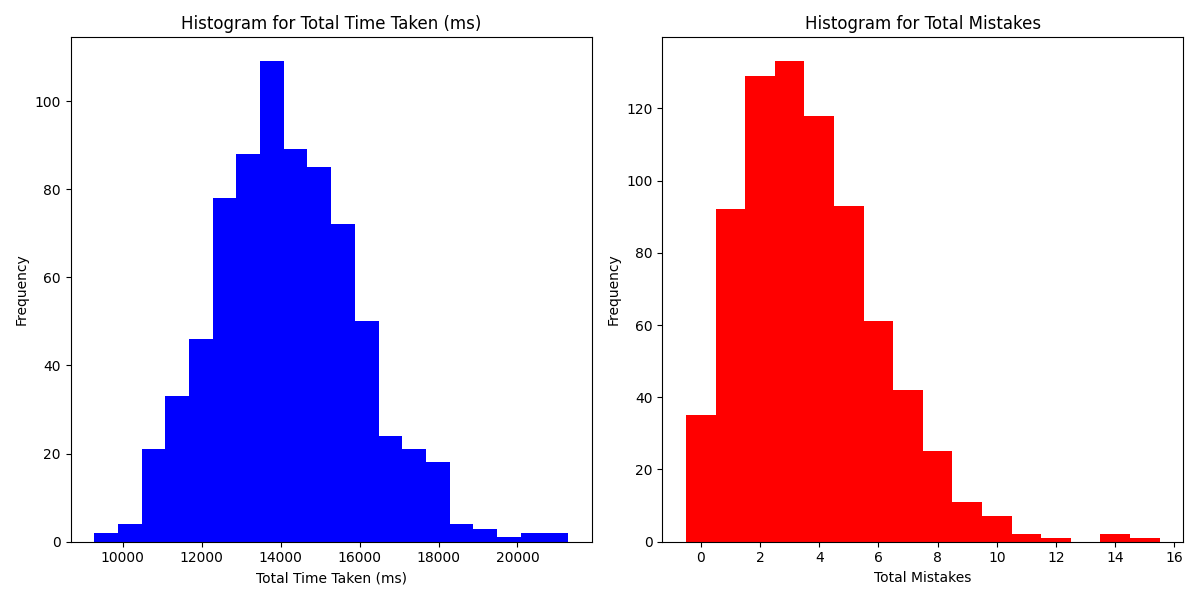
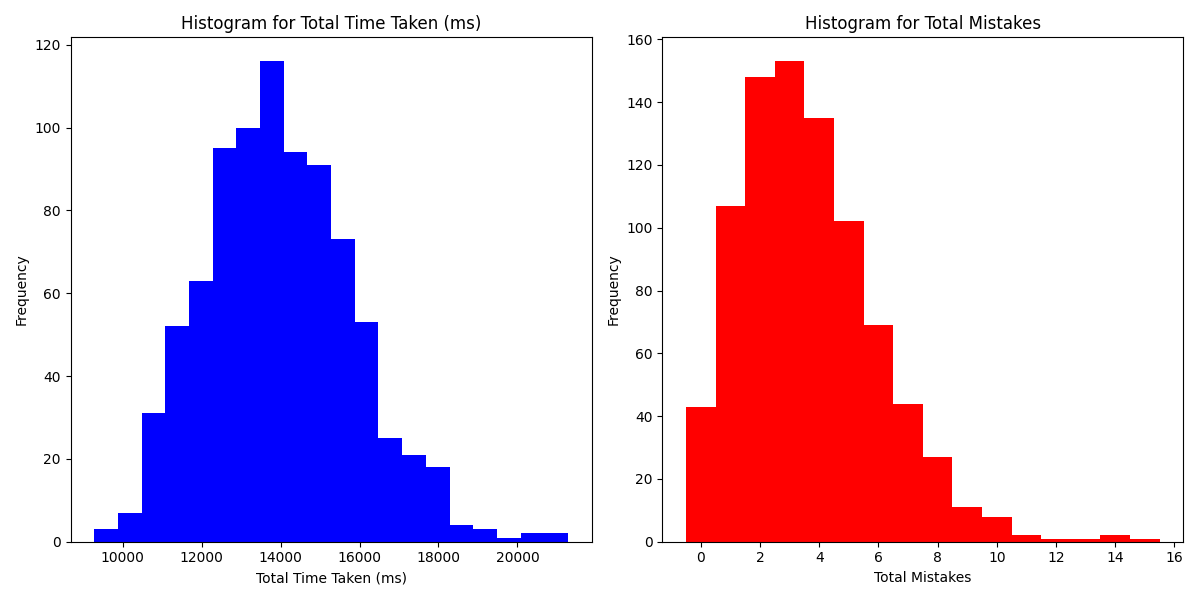
Update

diff --git a/analysis/generate_agg_data.py b/analysis/generate_agg_data.py
@@ -55,9 +55,10 @@ def generate_agg_data(sessions):
     # Creating the plot
     fig, ax1 = plt.subplots()
 
-    # Calculating median values for each session
+    # Calculating median values for each session and num 0-mistake runs
     medians_time_taken = [df["Total Time Taken (ms)"].median() for df in dfs]
     medians_mistakes = [df["Total Mistakes"].median() for df in dfs]
+    nom = [df["Total Mistakes"].value_counts().get(0, 0) for df in dfs]
 
     # Plotting Median Total Time Taken
     ax1.set_xlabel("Session")
@@ -91,22 +92,30 @@ def generate_agg_data(sessions):
     fig.tight_layout()
     plt.savefig("analysis/aggregate/vis/scatter.png")
 
+    plt.clf()
+
+    # 0-mistake runs by session
+    plt.plot(sessions, nom)
+    plt.xlabel("Session")
+    plt.ylabel("Number 0-mistake runs")
+    plt.savefig("analysis/aggregate/vis/nom.png")
+
     print("Aggregate data generated successfully.")
 
 
-generate_agg_data([str(i) for i in range(1, 9)])
+generate_agg_data([str(i) for i in range(1, 10)])
 generate_lm(
     predictor="Total Mistakes",
     response="Total Time Taken (ms)",
     output_folder_name="time_given_mistakes",
     agg=True,
-    sessions=[str(i) for i in range(1, 9)],
+    sessions=[str(i) for i in range(1, 10)],
 )
 generate_lm(
     predictor="Layout Difficulty",
     response="Total Time Taken (ms)",
     output_folder_name="time_given_diff",
     agg=True,
-    sessions=[str(i) for i in range(1, 9)],
+    sessions=[str(i) for i in range(1, 10)],
 )
-generate_plots(agg=True, sessions=[str(i) for i in range(1, 9)])
+generate_plots(agg=True, sessions=[str(i) for i in range(1, 10)])

diff --git a/analysis/generate_session_data.py b/analysis/generate_session_data.py
@@ -8,21 +8,24 @@ from generate_rolling import generate_rolling
 
 session_ID = "n"
 
-localStorage_to_raw(session_ID)
-raw_to_session(session_ID)
-generate_text_summary(session_ID)
-for i in range(10, 51, 10):
-    generate_rolling(session_ID, i)
-generate_lm(
-    predictor="Total Mistakes",
-    response="Total Time Taken (ms)",
-    session_ID=session_ID,
-    output_folder_name="time_given_mistakes",
-)
-generate_lm(
-    predictor="Layout Difficulty",
-    response="Total Time Taken (ms)",
-    session_ID=session_ID,
-    output_folder_name="time_given_diff",
-)
-generate_plots(session_ID=session_ID)
+for i in range(1, 10):
+    session_ID = str(i)
+
+    localStorage_to_raw(session_ID)
+    raw_to_session(session_ID)
+    generate_text_summary(session_ID)
+    for i in range(10, 51, 10):
+        generate_rolling(session_ID, i)
+    generate_lm(
+        predictor="Total Mistakes",
+        response="Total Time Taken (ms)",
+        session_ID=session_ID,
+        output_folder_name="time_given_mistakes",
+    )
+    generate_lm(
+        predictor="Layout Difficulty",
+        response="Total Time Taken (ms)",
+        session_ID=session_ID,
+        output_folder_name="time_given_diff",
+    )
+    generate_plots(session_ID=session_ID)

diff --git a/analysis/generate_text_summary.py b/analysis/generate_text_summary.py
@@ -17,6 +17,9 @@ def generate_text_summary(session_ID):
     best_mistakes = df["Total Mistakes"].min()
     worst_mistakes = df["Total Mistakes"].max()
 
+    # Calculate number of 0-mistake runs
+    nom = df["Total Mistakes"].value_counts().get(0, 0)
+
     # Format output filename based on input filename
     output_file_path = f"analysis/session_{session_ID}/summary.txt"
 
@@ -25,6 +28,7 @@ def generate_text_summary(session_ID):
         file.write(f"Summary Statistics for session_{session_ID}\n")
         file.write("\n")
         file.write(f"Total Runs: {len(df)}\n")
+        file.write(f"Total 0-mistake Runs: {nom}\n")
         file.write("\n")
         file.write(f"Mean Time Taken (ms): {mean_time}\n")
         file.write(f"Median Time Taken (ms): {median_time}\n")

diff --git a/README.md b/README.md
@@ -48,15 +48,16 @@ Note: "raw_to_session(...)" has a third parameter called "outlier_threshhold" yo
 ### Insights
 
 Improvement over time visualizations:
-* ![Median time and mistakes by session](analysis/data/aggregate/agg_plot.png)
+* ![Median time and mistakes by session](analysis/aggregate/vis/agg_plot.png)
+* ![Number 0-mistake runs by session](analysis/aggregate/vis/nom.png)
 
 Correlations drawn from all runs over all sessions using one-factor linear regression:
 * Mistakes predicts time taken (p≈0). The more mistakes you make, the worse your time. It's very tempting to try to go quick, since the time is intuitively the primary measure of skill, but you will actually be faster on average if you focus on making fewer mistakes, instead of focusing on pressing the buttons faster.
 * Layout difficultly predicts time taken (p≈0). Layout difficulty is assessed by the average distance in millimeters between two consecutive keys within a run. On a session by session basis (n≲100), the correlation is less obvious (p≳.05) due to the low variability of layout difficulty (sd=6.26mm), but more data makes the correlation apparent.
-* ![Time given mistakes plot](analysis/data/aggregate/time_given_mistakes/plot.png) ![Time given layout difficulty plot](analysis/data/aggregate/time_given_diff/plot.png)
+* ![Time given mistakes plot](analysis/aggregate/time_given_mistakes/plot.png) ![Time given layout difficulty plot](analysis/aggregate/time_given_diff/plot.png)
 
 Data appear to be roughly normally distributed, but I'm not sure near the extremes:
-* ![Q-Q plot](analysis/data/aggregate/qq_plot.png)
+* ![Q-Q plot](analysis/aggregate/vis/qq_plot.png)
 
 
 ### Direction
